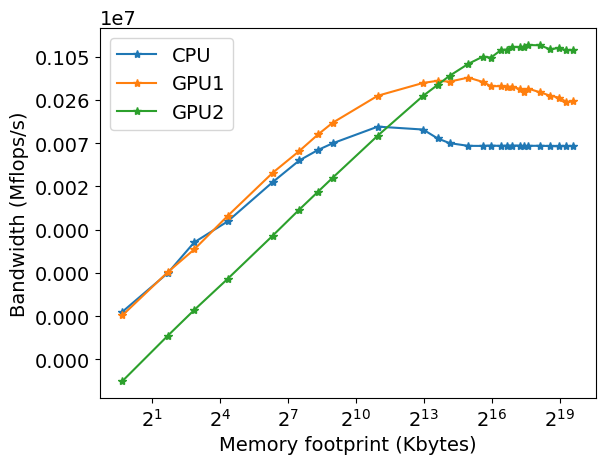
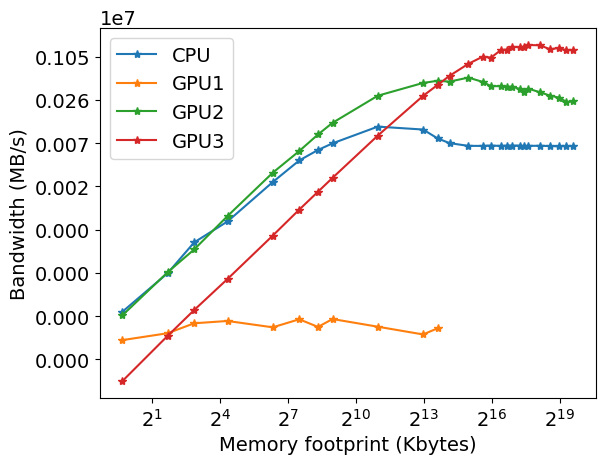
Updated plots

diff --git a/poisson/data/vizfun.py b/poisson/data/vizfun.py
@@ -11,8 +11,8 @@ mpl.rc('font', **font)
 
 df1 = pd.read_csv("statfun_poisson_CPU.dat",delim_whitespace=True,header=None,names=["MaxIter","Memory","MFlops","WallTime","Bandwidth","Size"])
 df1 = df1.loc[(df1['Size'] >= 10) & (df1['Size'] <= 10000)]
-#df2 = pd.read_csv("statfun_poisson_gpu1.dat",delim_whitespace=True,header=None,names=["MaxIter","Memory","MFlops","WallTime","Bandwidth","Size"])
-#df2 = df2.loc[(df2['Size'] >= 10) & (df2['Size'] <= 10000)]
+df2 = pd.read_csv("statfun_poisson_gpu1.dat",delim_whitespace=True,header=None,names=["MaxIter","Memory","MFlops","WallTime","Bandwidth","Size"])
+df2 = df2.loc[(df2['Size'] >= 10) & (df2['Size'] <= 1250)]
 df3 = pd.read_csv("statfun_poisson_gpu2.dat",delim_whitespace=True,header=None,names=["MaxIter","Memory","MFlops","WallTime","Bandwidth","Size"])
 df3 = df3.loc[(df3['Size'] >= 10) & (df3['Size'] <= 10000)]
 df4 = pd.read_csv("statfun_poisson_gpu3.dat",delim_whitespace=True,header=None,names=["MaxIter","Memory","MFlops","WallTime","Bandwidth","Size"])
@@ -20,11 +20,11 @@ df4 = df4.loc[(df4['Size'] >= 10) & (df4['Size'] <= 10000)]
 
 plt.figure()
 df1.set_index("Memory", inplace=True)
-#df2.set_index("Memory", inplace=True)
+df2.set_index("Memory", inplace=True)
 df3.set_index("Memory", inplace=True)
 df4.set_index("Memory", inplace=True)
 ax = df1["MFlops"].plot(legend=True, style ='*-')
-#df2["MFlops"].plot(legend=True, style ='*-',ax=ax)
+df2["MFlops"].plot(legend=True, style ='*-',ax=ax)
 df3["MFlops"].plot(legend=True, style ='*-',ax=ax)
 df4["MFlops"].plot(legend=True, style ='*-',ax=ax)
 plt.legend(["CPU","GPU1","GPU2","GPU3"],loc='upper left')
@@ -43,7 +43,7 @@ plt.close()
 
 plt.figure()
 ax = df1["WallTime"].plot(legend=True, style ='*-')
-#df2["WallTime"].plot(legend=True, style ='*-',ax=ax)
+df2["WallTime"].plot(legend=True, style ='*-',ax=ax)
 df3["WallTime"].plot(legend=True, style ='*-',ax=ax)
 df4["WallTime"].plot(legend=True, style ='*-',ax=ax)
 plt.legend(["CPU","GPU1","GPU2","GPU3"],loc='upper left')
@@ -62,12 +62,12 @@ plt.close()
 
 plt.figure()
 ax = df1["Bandwidth"].plot(legend=True, style ='*-')
-#df2["Bandwidth"].plot(legend=True, style ='*-',ax=ax)
+df2["Bandwidth"].plot(legend=True, style ='*-',ax=ax)
 df3["Bandwidth"].plot(legend=True, style ='*-',ax=ax)
 df4["Bandwidth"].plot(legend=True, style ='*-',ax=ax)
 plt.legend(["CPU","GPU1","GPU2","GPU3"],loc='upper left')
 plt.xlabel('Memory footprint (Kbytes)')
-plt.ylabel('Bandwidth (Mflops/s)')
+plt.ylabel('Bandwidth (MB/s)')
 #plt.gca().set_ylim(bottom=0)
 plt.xscale('log',basex=2)
 plt.yscale('log',basey=2)
@@ -81,13 +81,13 @@ plt.close()
 
 plt.figure()
 df1 = df1.sort_values(['Size'],ascending=True)
-#df2 = df2.sort_values(['Size'],ascending=True)
+df2 = df2.sort_values(['Size'],ascending=True)
 df3 = df3.sort_values(['Size'],ascending=True)
 df4 = df4.sort_values(['Size'],ascending=True)
-#df2['CPU/GPU1'] = df1.loc[df1['Size'] < 2900]['WallTime']/df2['WallTime']
+df2['CPU/GPU1'] = df1.loc[df1['Size'] <= 1250]['WallTime']/df2['WallTime']
 df3['CPU/GPU2'] = df1['WallTime']/df3['WallTime']
 df4['CPU/GPU3'] = df1['WallTime']/df4['WallTime']
-#ax = df2["Speedup"].plot(legend=True, style ='*-')
+ax = df2["CPU/GPU1"].plot(legend=True, style ='*-')
 ax = df3["CPU/GPU2"].plot(legend=True, style ='*-')
 ax = df4["CPU/GPU3"].plot(legend=True, style ='*-')
 plt.legend(loc='center left', bbox_to_anchor=(1, 0.5))
